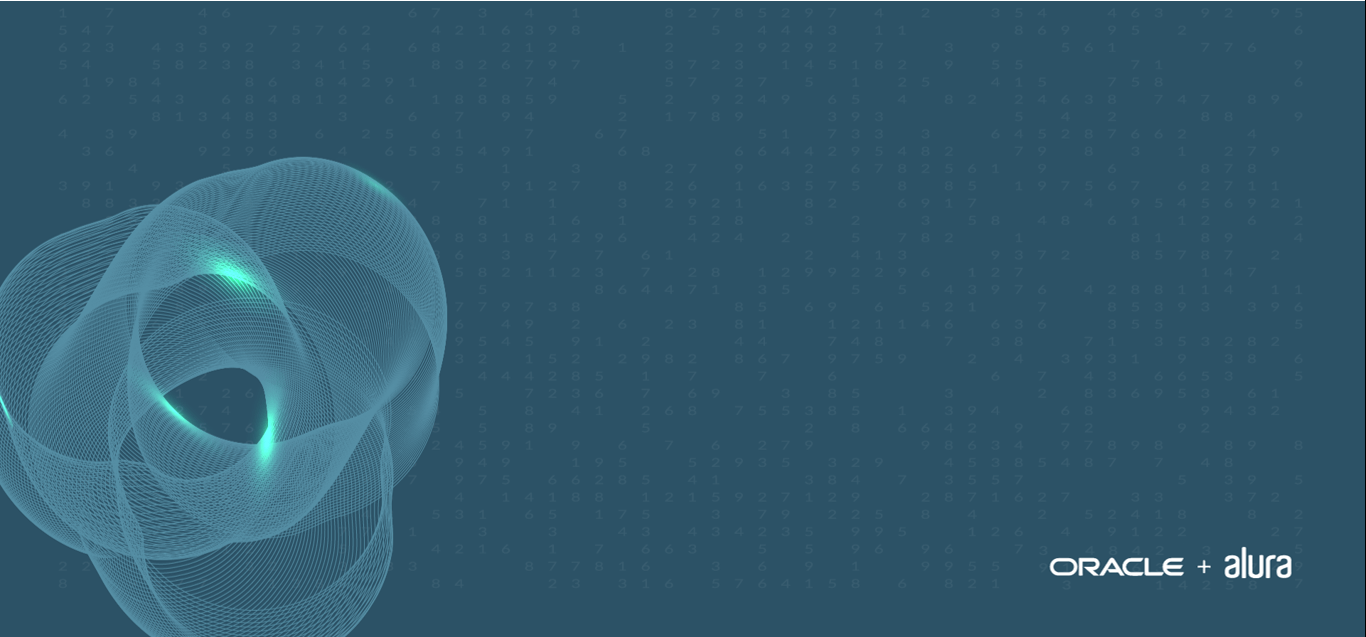
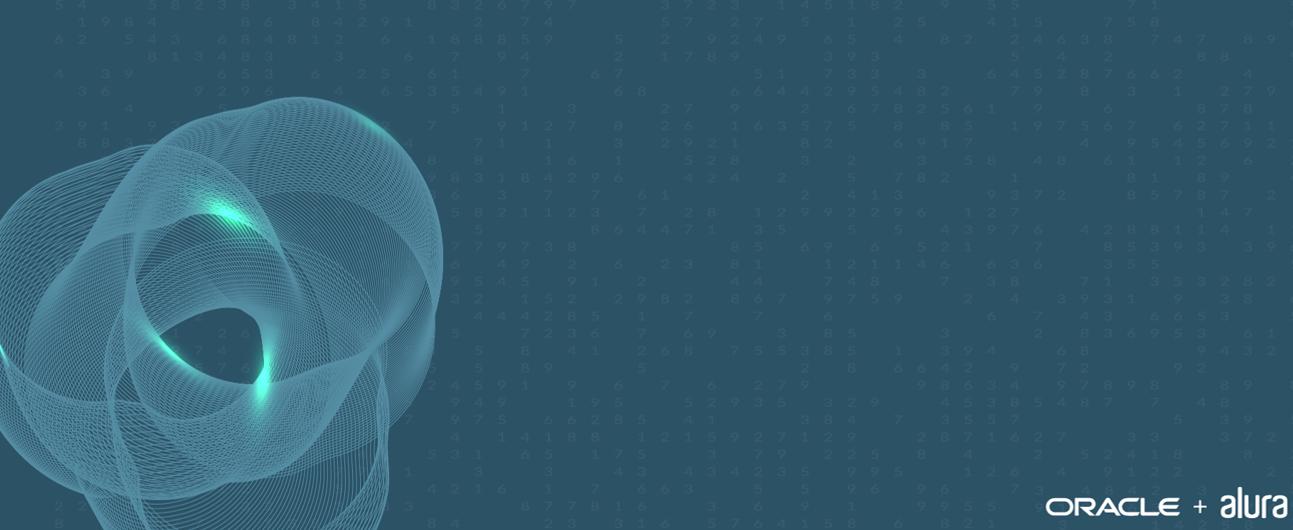
Terminando el maquetado HTML y CSS

diff --git a/index.html b/index.html
@@ -29,16 +29,38 @@
   <!-- Inicio main -->
   <main>
     <div class="main">
-      <img id="Oracle" src="./assets/img/oracle_one.png" alt="Oracle" class="fondo_pantalla">
+      <div class="mensajes">
+        <p>Hola Mundo</p>
+      </div>
+      <div class="contenedor">
+        <div class="main-left">
+          <textarea id="text-encriptar" cols="30" rows="10" placeholder="Ingrese el texto aqui"></textarea>
+            <div class="text-informacion">
+              <span></span>
+              <p>Solo Letras minusculas y sin acentos</p>
+            </div>
+            <div class="button">
+              <button id="encriptar">Encriptar</button>
+              <button id="desencriptar">Desencriptar</button>
+            </div>
+        </div>
+        <div class="main-right">
+          <textarea id="text-desencriptar" cols="30" rows="10"></textarea>
+            <div class="button">
+              <button id="copiar">copiar</button>
+            </div>
+        </div>
+      </div>
     </div>
   </main>
   <!-- Inicio main -->
   <!-- Inicio footer -->
   <footer>
     <div class="footer-left">
+      <p></p>
     </div>
     <div class="footer-center">
-      <p>Rodrigo Angeles Gonzalez 2023 ©</p>
+      <p>©Rodrigo Angeles Gonzalez 2023</p>
     </div>
     <div class="footer-right">
       <img src="./assets/icon/linkedin.png" alt="linkedin rodrigo" class="icono">

diff --git a/css/styles.css b/css/styles.css
@@ -1,3 +1,8 @@
+:root {
+  --dark-blue-title: #052051;
+  --dark-blue-text: #356EA9;
+  --text-error: #609ED4;
+}
 body {
   margin: 0;
   font-family: 'Roboto', sans-serif;
@@ -20,15 +25,30 @@ header {
 }
 .header-center h1{
   margin-bottom: 0%;
+  color: var(--dark-blue-title);
 }
 .header-center p{
   text-align: center;
   margin-top: 0.2%;
+  color: var(--dark-blue-text);
 }
 
-.fondo_pantalla {
-  width: 100%;
-  height: 515px;
+main {
+  background-image: url(../assets/img/oracle_one.png);
+  background-position: left;
+  background-repeat: no-repeat;
+  background-color: #2C5266;
+  height: 520px;
+  display: flex;
+  justify-content:center;
+  }
+
+  .mensajes {
+    text-align: center;
+    color: var(--text-error);
+  }
+  .contenedor {
+    display: flex;
   }
 
 footer {
@@ -36,17 +56,20 @@ footer {
   justify-content: space-between;
   background: #F4F6F6;
 }
-.footer-left,
+.footer-left {
+  margin-left: 5%;
+  margin-right: 10%;
+}
 .footer-right {
   display: flex;
   align-items: center;
-  margin-left: 5%;
   margin-right: 5%;
   border: 10%;
 }
 .footer-center p{
-  text-align: center;
+  align-items: center;
   margin-top: 10px;
+  color: var(--dark-blue-title);
 }
 .icono {
   width: 30px;
